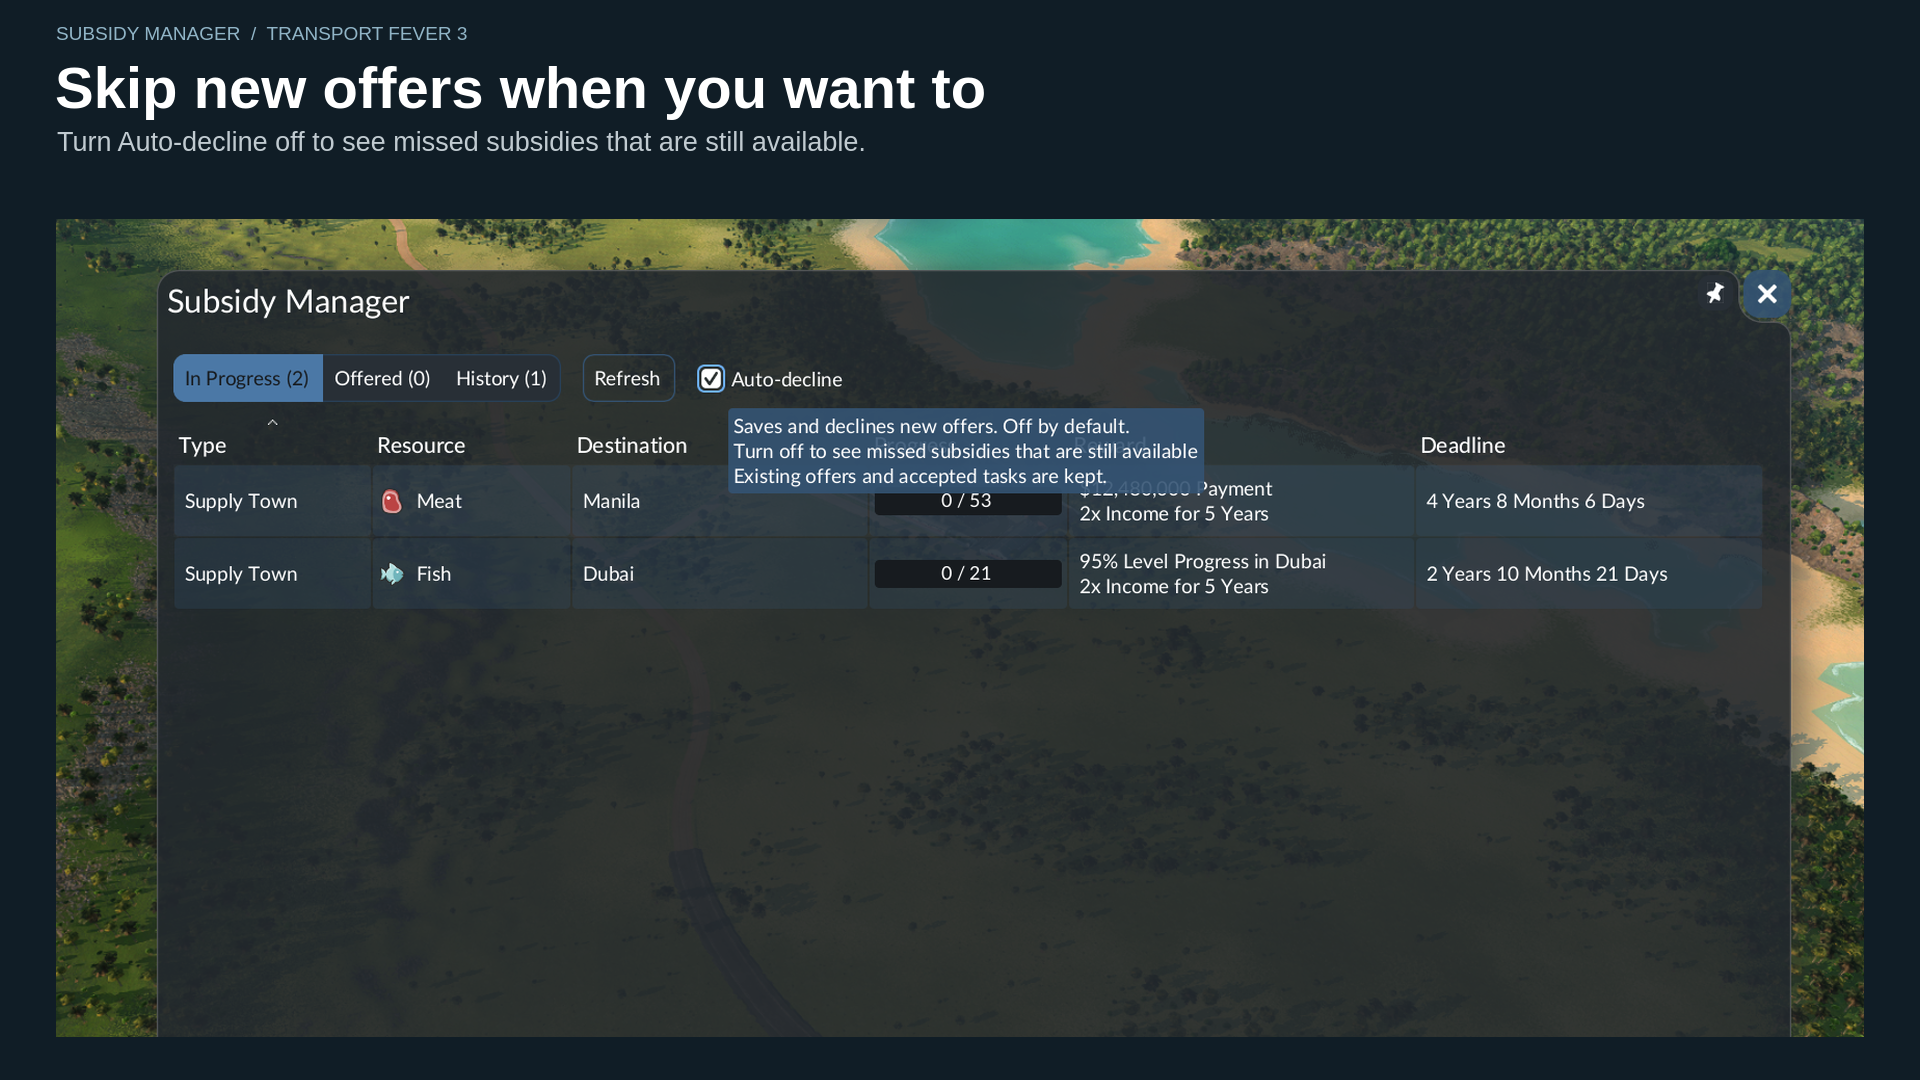
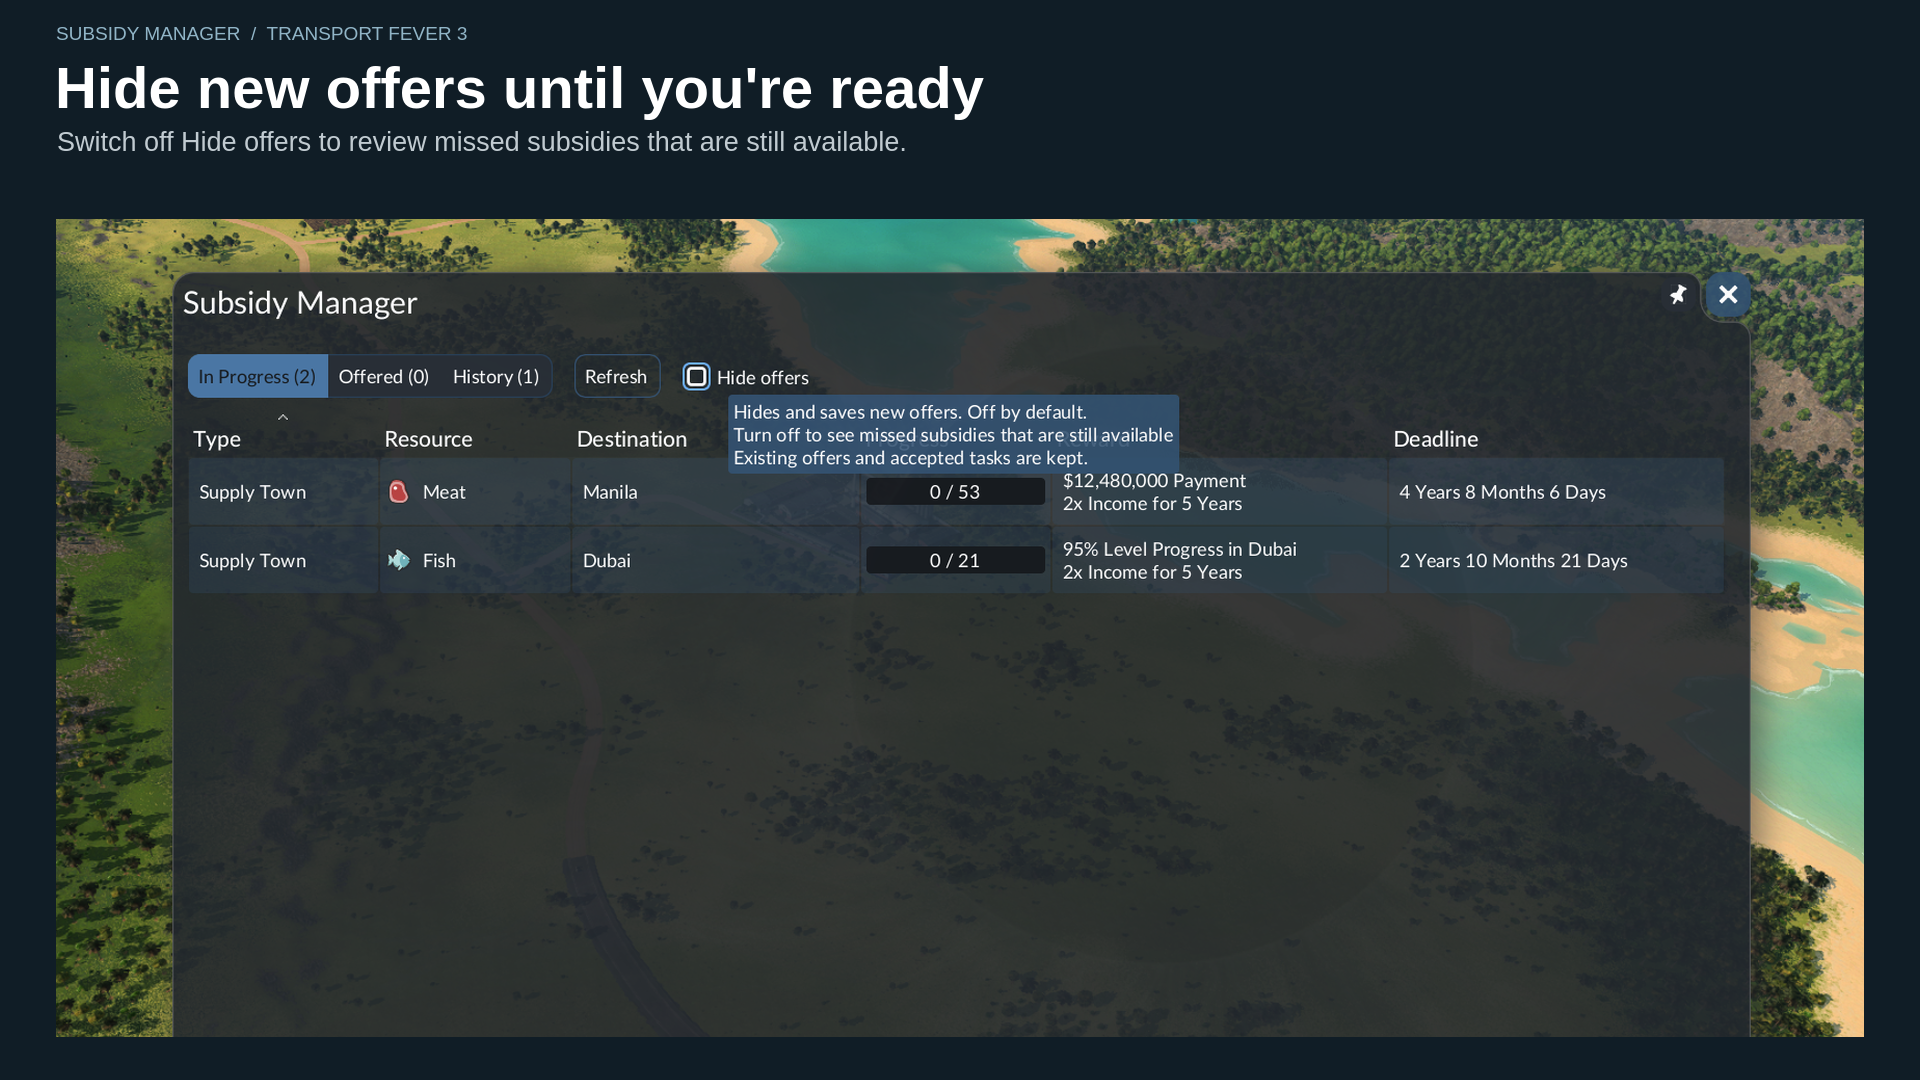
Refresh gallery with Hide offers game captures

diff --git a/AGENTS.md b/AGENTS.md
@@ -333,3 +333,11 @@ These findings come from the installed TF3 resources and real game logs inspecte
 - Same pending public 1.3.1/internal revision 19. No new PR/revision increment or publication is implied by this wording update.
 - Wording/package validation passes: translation key sets are unchanged, only six setting-related English values change, no Teal/Lua runtime code changes, and no Auto-decline/automatic-decline wording remains in active UI strings. Reproducible package checks and final ZIP build pass. Read-only configured package check reports no updates; temporary Teal HEAD unchanged; fresh official security comparison remains zero below recorded fixes across 1212 installed packages with 20 unresolved groups lacking fixed-version data. No runtime dependencies or packages installed/upgraded.
 - Verified staging backup `staging_backups/tf3_subsidy_manager_1-pre-v1.3.1-20261021T224035368563Z`; all 12 runtime files match source, and nine gallery images plus uploader linkage remain unchanged. Rebuilt the 21-entry ZIP. Gameplay-installed copy unchanged; no native game/uploader validation, upload/publication, push or tag. Restart to load the renamed setting. Gallery captures still show the historical label and README identifies it.
+
+### v1.3.1 Hide Offers Gallery Refresh
+
+- The maintainer supplied all three replacement real captures: `screenshot-2026-10-21_23-42-20.png` (2018×1162, renamed setting and complete tooltip), `_23-47-41.png` (2067×1075, clean In Progress with Fish 3/21 and Offered dot), and `_23-48-27.png` (2050×1098, two-hidden-subsidies tooltip). These establish visible window/table/label/tooltip/dot behavior at the captured scale; they do not establish toolbar visibility with the reporter's UI/mod combination, every recovery, or native uploader validation.
+- Replaced `docs/screenshots/active.png`, `auto-decline.png` (historical filename retained) and `missed-offers.png`, matching publication previews 2/7/8. All are 1920×1080 in the established charcoal caption layout with matching Liberation Sans typography and insets. Only original screenshot pixels are cropped/scaled; no game UI/text/value is redrawn. Production script remains ignored under `docs/screenshots/drafts/`. Other gallery images remain unchanged.
+- README gallery now shows current Hide offers captures and removes the obsolete old-label note; changelog/release notes/Mod Hub history mention the refreshed gallery. Same pending 1.3.1/revision 19. Package/gallery-source equality, dimensions, reproducibility, ignored local-document/draft checks and diff hygiene pass. Built 21-entry ZIP. No runtime logic changes or new in-game run by the agent.
+- Required read-only checks: no runtime dependencies added, configured Omarchy repositories offer no updates, temporary Teal HEAD unchanged. Fresh official security comparison covers 1212 installed packages: zero below recorded fixed versions and 20 unresolved groups without fixed-version data. No package installations/upgrades or system database/config changes; unresolved/stale data is not a clean vulnerability result.
+- Verified staging backup `staging_backups/tf3_subsidy_manager_1-pre-v1.3.1-20261021T225049524959Z`; all 12 runtime files and previews 2/7/8 match source. Preserved the other six gallery images and uploader linkage byte-for-byte. Separate gameplay-installed copy unchanged. No upload/publication, tag or push. The maintainer will manually replace these three mod.io gallery images when publishing.

diff --git a/README.md b/README.md
@@ -41,19 +41,19 @@ You can move and pin the window. When there are no subsidies in any section, it 
 
 ## Screenshot gallery
 
-The gallery below uses real game captures. Some show the previous **Auto-decline** label; the setting is now **Hide offers**. The cover above is promotional artwork.
+The gallery below uses real game captures. The cover above is promotional artwork.
 
 ### Your subsidies, one click away
 
 ![The contract icon beside Industry Statistics opens Subsidy Manager](docs/screenshots/toolbar.png)
 
-### Skip new offers when you want to
+### Hide new offers until you're ready
 
-![The earlier Auto-decline tooltip explains that turning it off reveals missed subsidies that are still available](docs/screenshots/auto-decline.png)
+![The Hide offers tooltip explains that turning it off reveals missed subsidies that are still available](docs/screenshots/auto-decline.png)
 
 ### Pick up the opportunities you missed
 
-![The earlier Auto-decline setting off, with a yellow Offered dot and a tooltip reporting two previously hidden subsidies still available](docs/screenshots/missed-offers.png)
+![Hide offers switched off, with a yellow Offered dot and a tooltip reporting two previously hidden subsidies still available](docs/screenshots/missed-offers.png)
 
 ### Keep your next move in view
 

diff --git a/CHANGELOG.md b/CHANGELOG.md
@@ -3,6 +3,7 @@
 ## v1.3.1 — More reliable toolbar
 
 - Renamed Auto-decline to **Hide offers**, with clearer guidance about reviewing missed subsidies later.
+- Updated the real-game gallery to show Hide offers and missed-offer reminders.
 - Improved initialization of the bottom-bar launcher.
 - Offer hiding and saved-offer handling remain active independently of the toolbar icon.
 

diff --git a/RELEASE_NOTES.md b/RELEASE_NOTES.md
@@ -3,6 +3,7 @@
 ## v1.3.1 — More reliable toolbar
 
 - Renamed Auto-decline to **Hide offers**, with clearer guidance about reviewing missed subsidies later.
+- Updated the real-game gallery to show Hide offers and missed-offer reminders.
 - Improved initialization of the bottom-bar launcher.
 - Offer hiding and saved-offer handling remain active independently of the toolbar icon.
 
